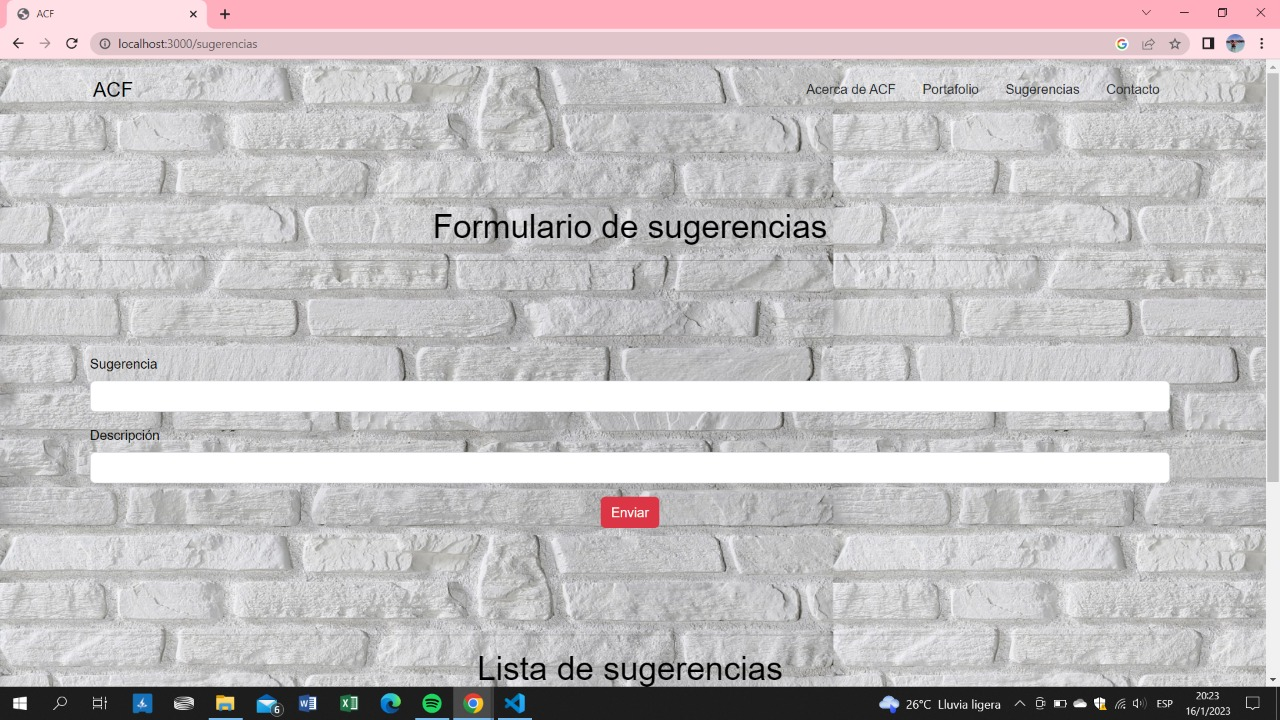
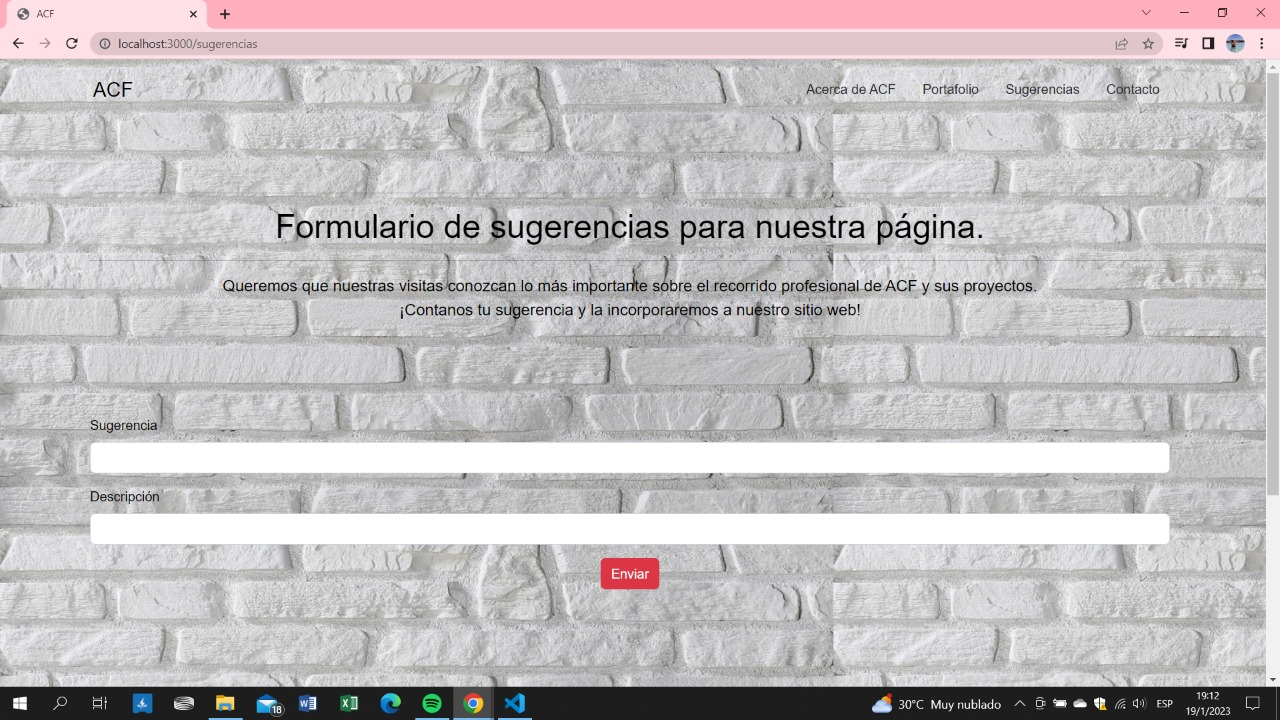
Modificando página de sugerencias

diff --git a/public/css/navegables.css b/public/css/navegables.css
@@ -35,6 +35,10 @@ p {
     text-align: center;
 }
 
+.sugerencia {
+    font-size: 1.2rem;
+}
+
 .relleno {
     padding-left: 5rem;
 }
